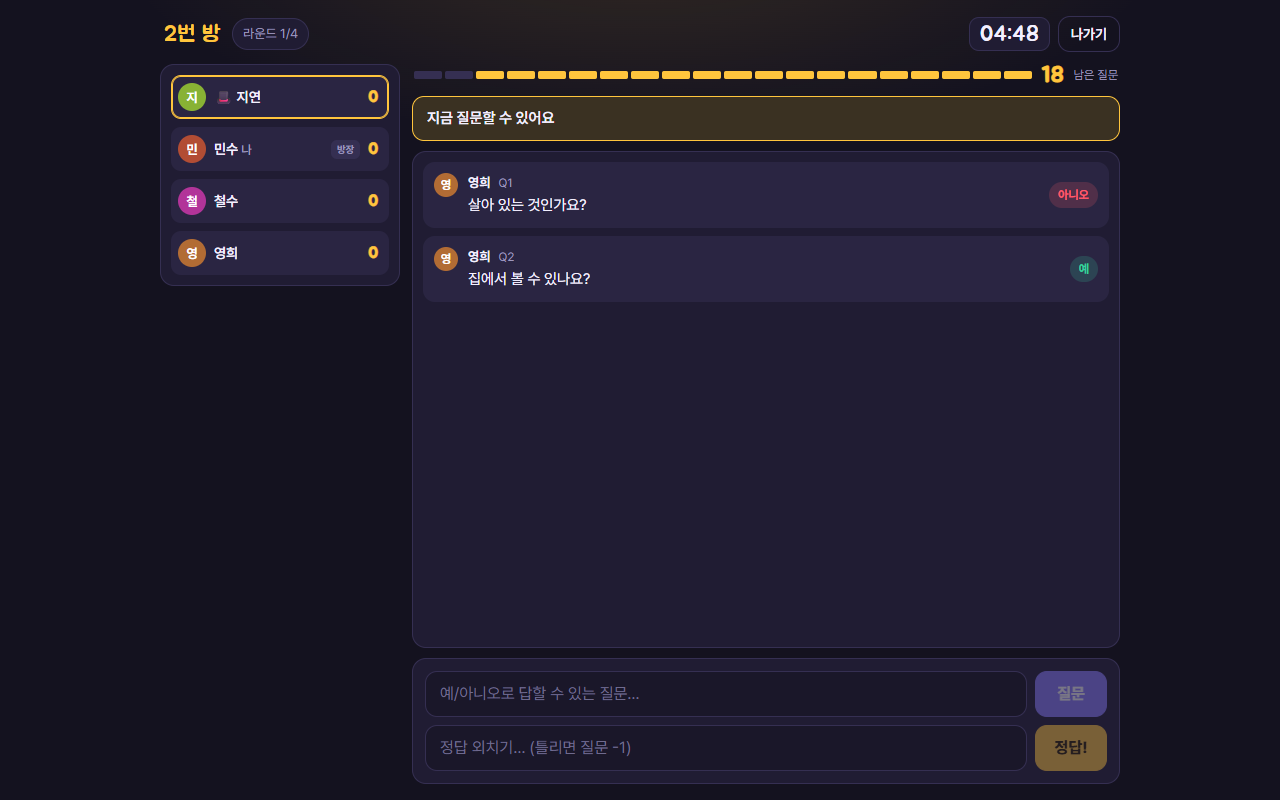
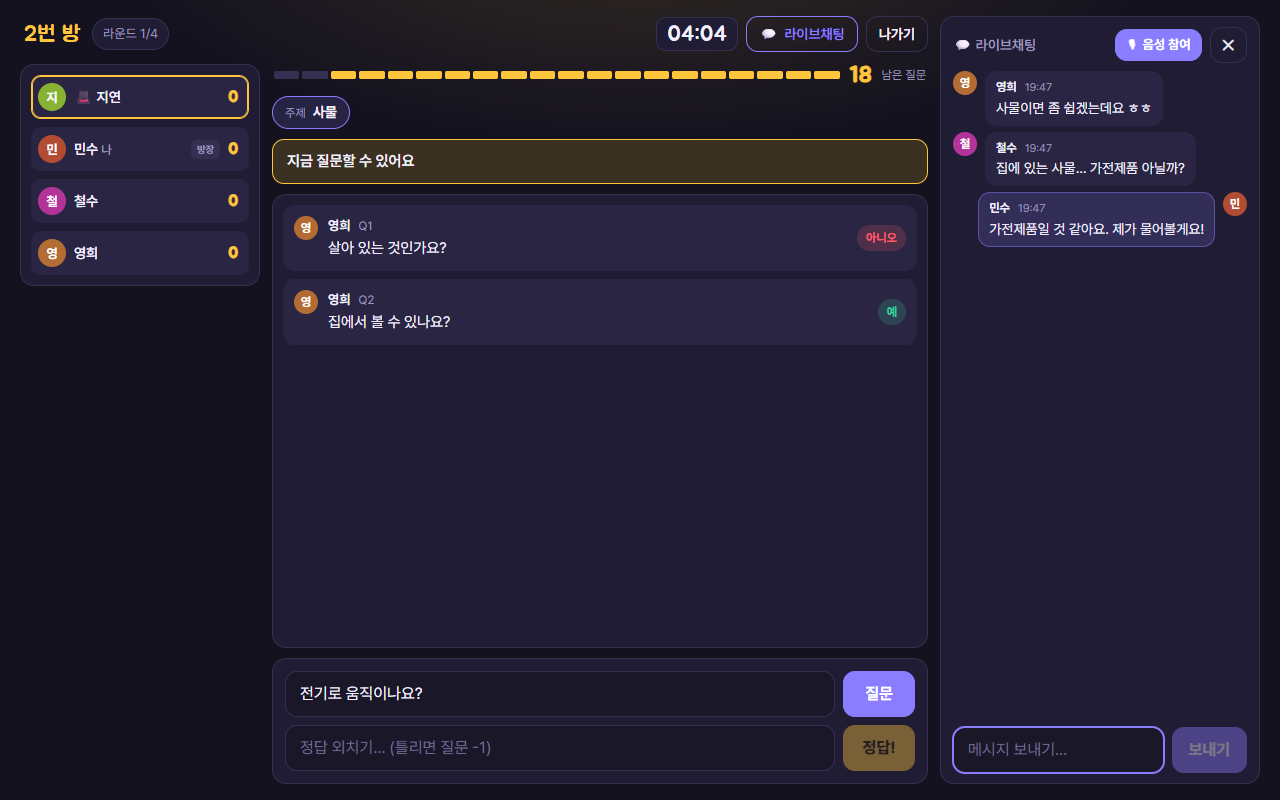
README를 현재 기능(주제 선택·라이브채팅·음성·새로고침 유예)에 맞게 최신화
- 소개·게임 설명에 주제 공개와 라이브채팅·음성 추가, 라운드 표에 주제 후보 5개 반영
- '라이브채팅과 음성' 사용법 절 신설(열기/안 읽은 개수, 200자·50개 보관, 음성 참여·HTTPS·TURN·다시 참여)
- '연결이 끊겼을 때'에 나가기 동작 추가, 문서 표 설명 갱신
- 스크린샷을 주제 배지와 라이브채팅 열이 보이는 현재 화면으로 교체
- docs/rules.md에 빠져 있던 주제 선택 규칙과 주제·채팅 길이 제한 보충

diff --git a/README.md b/README.md
@@ -1,8 +1,8 @@
 # 20고개 (Twenty Questions)
 
 2~8명이 폰이나 PC로 함께 하는 **실시간 스무고개**입니다.
-매 라운드 한 명이 출제자가 되어 단어를 정하고, 나머지가 예/아니오 질문 20개 안에 정답을 맞힙니다.
-설치할 것 없이 브라우저로 접속해 닉네임만 넣으면 바로 시작합니다.
+매 라운드 한 명이 출제자가 되어 주제와 단어를 정하고, 나머지가 예/아니오 질문 20개 안에 정답을 맞힙니다.
+설치할 것 없이 브라우저로 접속해 닉네임만 넣으면 바로 시작하고, 게임 옆에서 **라이브채팅과 음성 대화**도 할 수 있습니다.
 
 **지금 해보기 → https://twenty-questions-11fa.onrender.com**
 (무료 서버라 15분간 아무도 없으면 잠듭니다. 첫 접속자만 1분쯤 기다리면 됩니다.)
@@ -12,10 +12,12 @@
 ## 이런 게임입니다
 
 - 서버가 **방 3개**를 항상 열어 두고, 참가자는 첫 화면의 방 목록에서 하나를 골라 들어갑니다.
-- **출제자**가 단어를 정하면(60초), 나머지가 **예 / 아니오**로 답할 수 있는 질문을 합니다. 라운드당 **20개**.
+- **출제자**가 주제를 고르고 단어를 정하면(60초), 나머지가 **예 / 아니오**로 답할 수 있는 질문을 합니다. 라운드당 **20개**.
+- **주제**(동물·음식·장소 등)는 추측자에게도 보여서 첫 질문의 출발점이 됩니다. 단어는 출제자에게만 보입니다.
 - 정답은 언제든 외칠 수 있습니다. 서버가 자동 판정하고, 틀리면 질문 1개를 소모합니다.
 - 맞힌 사람 **+3점**, 출제자는 누가 맞히면 **+1점**, 아무도 못 맞히면 **+2점**.
 - 모두가 한 번씩 출제하면 게임이 끝납니다.
+- 방마다 **라이브채팅**(글)과 **음성 대화**가 있습니다. 게임 진행과 별개라 어느 단계에서든 쓸 수 있습니다.
 
 ## 사용 방법
 
@@ -36,18 +38,29 @@
 
 | 내가 출제자일 때 | 내가 추측자일 때 |
 | --- | --- |
-| 화면 위 상황 줄이 노랗게 바뀌고 단어 입력창이 뜹니다. 60초 안에 확정하세요. | 출제자가 단어를 고르는 동안 기다립니다. |
+| 화면 위 상황 줄이 노랗게 바뀌고 **주제 후보 5개**와 단어 입력창이 뜹니다. 주제를 고르거나 직접 쓰고(12자 이내), 단어를 60초 안에 확정하세요. | 출제자가 단어를 고르는 동안 기다립니다. 단어가 정해지면 **주제**가 화면에 표시됩니다. |
 | 질문이 올라오면 바닥의 **예 / 아니오 / 애매함** 버튼으로 답합니다. | 상황 줄이 "지금 질문할 수 있어요"면 질문을 보냅니다. 누군가의 질문에 답변이 오기 전에는 다음 질문을 받지 않습니다. |
 | 내 단어는 내 화면에만 보입니다. | **정답!** 입력창에 언제든 정답을 외칠 수 있습니다. 틀리면 질문 20칸 게이지가 하나 줄어듭니다. |
 
 라운드가 끝나면 정답이 공개되고 15초 뒤 다음 출제자로 넘어갑니다(방장은 바로 넘길 수 있습니다).
 모두가 한 번씩 출제하면 순위가 나오고, 방장이 **같은 사람들과 다시 하기**를 누르면 대기실로 돌아갑니다.
 
+### 라이브채팅과 음성
+
+- 화면 위 **💬** 버튼을 누르면 채팅이 열립니다. 폰에서는 아래에서 올라오는 시트, 넓은 화면에서는 오른쪽 열입니다.
+  닫아 두어도 안 읽은 메시지 개수가 버튼에 표시되고, 열어 둔 상태는 새로고침해도 유지됩니다.
+- 메시지는 200자까지, 방마다 최근 50개를 남깁니다. 늦게 들어온 사람도 이전 대화를 볼 수 있고, 방이 대기실로 돌아가면 비워집니다.
+- **음성 참여**를 누르고 마이크 권한을 허용하면 같은 방에서 음성에 참여한 사람들과 바로 통화가 됩니다.
+  소리는 브라우저끼리 직접(WebRTC) 오가고 서버는 연결만 이어 줍니다. 🎤 / 🔊 버튼으로 마이크와 소리를 따로 끄고 켤 수 있습니다.
+- 음성은 `https` 주소(또는 `localhost`)에서만 켤 수 있고, 회사망 등 일부 네트워크에서는 연결이 안 될 수 있습니다
+  → [배포와 외부 접속](docs/deploy.md)의 TURN 설정. 새로고침하거나 다른 탭으로 돌아오면 음성은 **다시 참여**해야 합니다.
+
 ### 연결이 끊겼을 때
 
 새로고침(F5)하거나 잠깐 연결이 끊겨도 **같은 자리로 돌아옵니다** (같은 브라우저 탭 기준).
 5초 안에 돌아오면 진행 중인 게임·방장·출제자 역할이 그대로 이어집니다.
 그보다 오래 끊긴 사람은 자리만 남겨 두고 "끊김"으로 표시하며, 출제 차례는 건너뜁니다.
+**나가기** 버튼은 기다리지 않고 바로 자리를 비우고 첫 화면으로 돌아갑니다.
 
 ## 직접 실행하기
 
@@ -62,7 +75,7 @@ npm start         # http://localhost:3001  (PORT 환경변수로 변경 가능)
 
 ```bash
 npm run dev       # 개발: 서버(3001) + Vite(5173, 자동 새로고침)
-npm test          # 게임 규칙 단위 테스트 + 실제 WebSocket 통합 테스트
+npm test          # 게임·채팅·음성 규칙 단위 테스트 + 실제 WebSocket 통합 테스트
 ```
 
 ## 문서
@@ -70,8 +83,9 @@ npm test          # 게임 규칙 단위 테스트 + 실제 WebSocket 통합 테
 | 문서 | 내용 |
 | --- | --- |
 | [게임 규칙 (상세)](docs/rules.md) | 한 판의 흐름, 제한 시간·점수·길이 제한, 세부 규칙, 방 운영 방식 |
-| [구조와 설계](docs/architecture.md) | 파일 맵, 서버 권위·좌석 복구·실시간 갱신, 메시지 프로토콜, 화면 구성, 테스트 |
-| [배포와 외부 접속](docs/deploy.md) | Render 무료 플랜 배포, 다른 호스팅 비교, 같은 와이파이·터널 접속, 환경변수 |
+| [구조와 설계](docs/architecture.md) | 파일 맵, 서버 권위·좌석 복구(새로고침 유예)·실시간 갱신, 메시지 프로토콜, 화면 구성, 테스트 |
+| [배포와 외부 접속](docs/deploy.md) | Render 무료 플랜 배포, 다른 호스팅 비교, 같은 와이파이·터널 접속, 환경변수, 음성(TURN) 설정 |
 | [알려진 제한과 위험](docs/limitations.md) | 메모리 상태, 공개 방, 수용 인원, 폰 화면 잠금, 도배·판정 한계 |
 
-React + Vite 클라이언트, Node(`express` + `ws`) 서버. 서버 한 대가 화면과 실시간 통신을 모두 처리합니다.
+React + Vite 클라이언트, Node(`express` + `ws`) 서버. 서버 한 대가 화면과 실시간 통신을 모두 처리하고,
+음성은 WebRTC로 브라우저끼리 직접 연결됩니다(서버는 시그널링만).

diff --git a/docs/rules.md b/docs/rules.md
@@ -7,7 +7,8 @@
 1. **대기실** — 방장이 참가자 카드를 탭해 **첫 출제자**를 고를 수 있습니다. 고르지 않으면 입장 순서입니다.
    출제자는 매 라운드 그 순서대로 돌아가므로, 첫 사람을 정하는 것이 곧 순서를 정하는 것입니다.
    대기실 화면에 최종 순서(예: `지연 → 민수 → 철수 → 영희`)가 미리 표시됩니다.
-2. **단어 선택** — 출제자가 60초 안에 단어를 정합니다. 단어는 출제자 화면에만 보입니다.
+2. **주제와 단어 선택** — 출제자가 60초 안에 **주제**와 단어를 정합니다. 주제는 후보 5개(동물·음식·장소 등 20개 중
+   무작위) 가운데 고르거나 직접 입력하며, 추측자에게도 공개되어 첫 질문의 출발점이 됩니다. 단어는 출제자 화면에만 보입니다.
 3. **질문** — 나머지가 예/아니오로 답할 수 있는 질문을 합니다. 라운드당 20개.
    출제자는 `예 / 아니오 / 애매함` 중 하나로 답합니다.
 4. **정답** — 언제든 정답을 외칠 수 있습니다. 서버가 자동 판정하며, 틀리면 질문 1개를 소모합니다.
@@ -26,7 +27,7 @@
 | 질문 단계 제한 시간 | 5분 |
 | 결과 화면 | 15초 뒤 자동 진행 |
 | 점수 | 맞힌 사람 **+3** / 출제자는 누가 맞히면 **+1**, 아무도 못 맞히면 **+2** |
-| 길이 제한 | 닉네임 12자 · 단어 40자 · 질문/정답 200자 |
+| 길이 제한 | 닉네임 12자 · 주제 12자 · 단어 40자 · 질문/정답 200자 · 채팅 200자 |
 
 ## 세부 규칙
 
